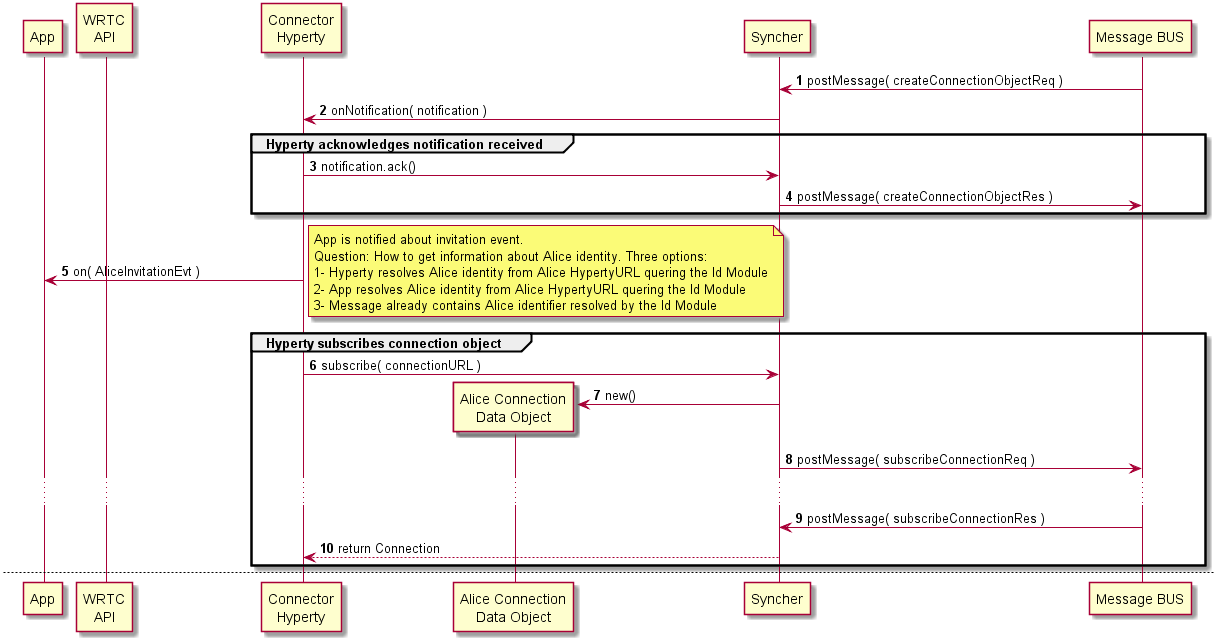
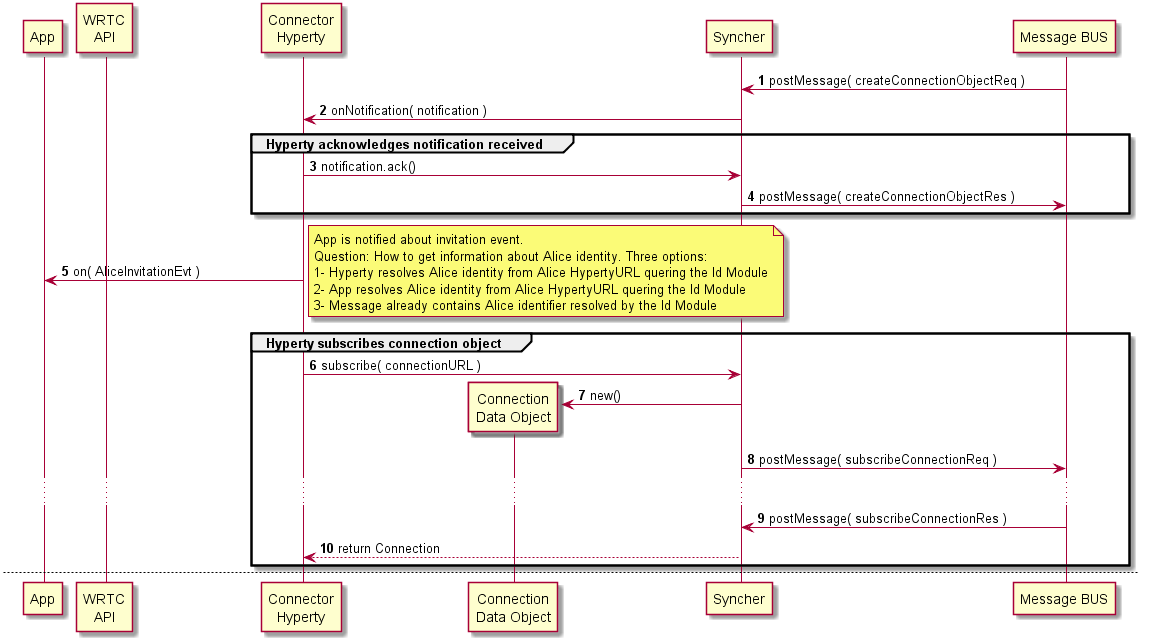
Connector Hyperty updated according to changes to Connection data model

diff --git a/docs/hyperties/connector/readme.md b/docs/hyperties/connector/readme.md
@@ -13,27 +13,11 @@ Connector Hyperty
 
 The Connector main functionality is to handle two party audio and voice conversations. *the support of Multiparty calls is for further study*
 
-*the next paragraphs to be moved to smart voice Hyperty*
-
-Thus, a few actions are automatically performed according to user context (*the relationship of this automation with Hyperty Policies is for further study*). Contextual behavior is configurable by the App.
-
-#### Contextual Behavior Examples
-
-Presence Context
-
-**Busy** automatically reject or forward incoming invitation to another user or Media Hyperty if inviter is not part of my favourites group.
-
-Activity Context
-
-**Running**
-
-Location Context
-
 ### Hyperty Data Objects schemas
 
 *Identify reTHINK standardised data object schemas or Specify new Data Object schemas handled by the Hyperty*
 
-This Hyperty handles a standard [Connection Data Object](https://github.com/reTHINK-project/architecture/tree/master/docs/datamodel/context).
+This Hyperty handles a standard [Connection Data Object](https://github.com/reTHINK-project/architecture/tree/master/docs/datamodel/communication#connection).
 
 ### Hyperty API
 
